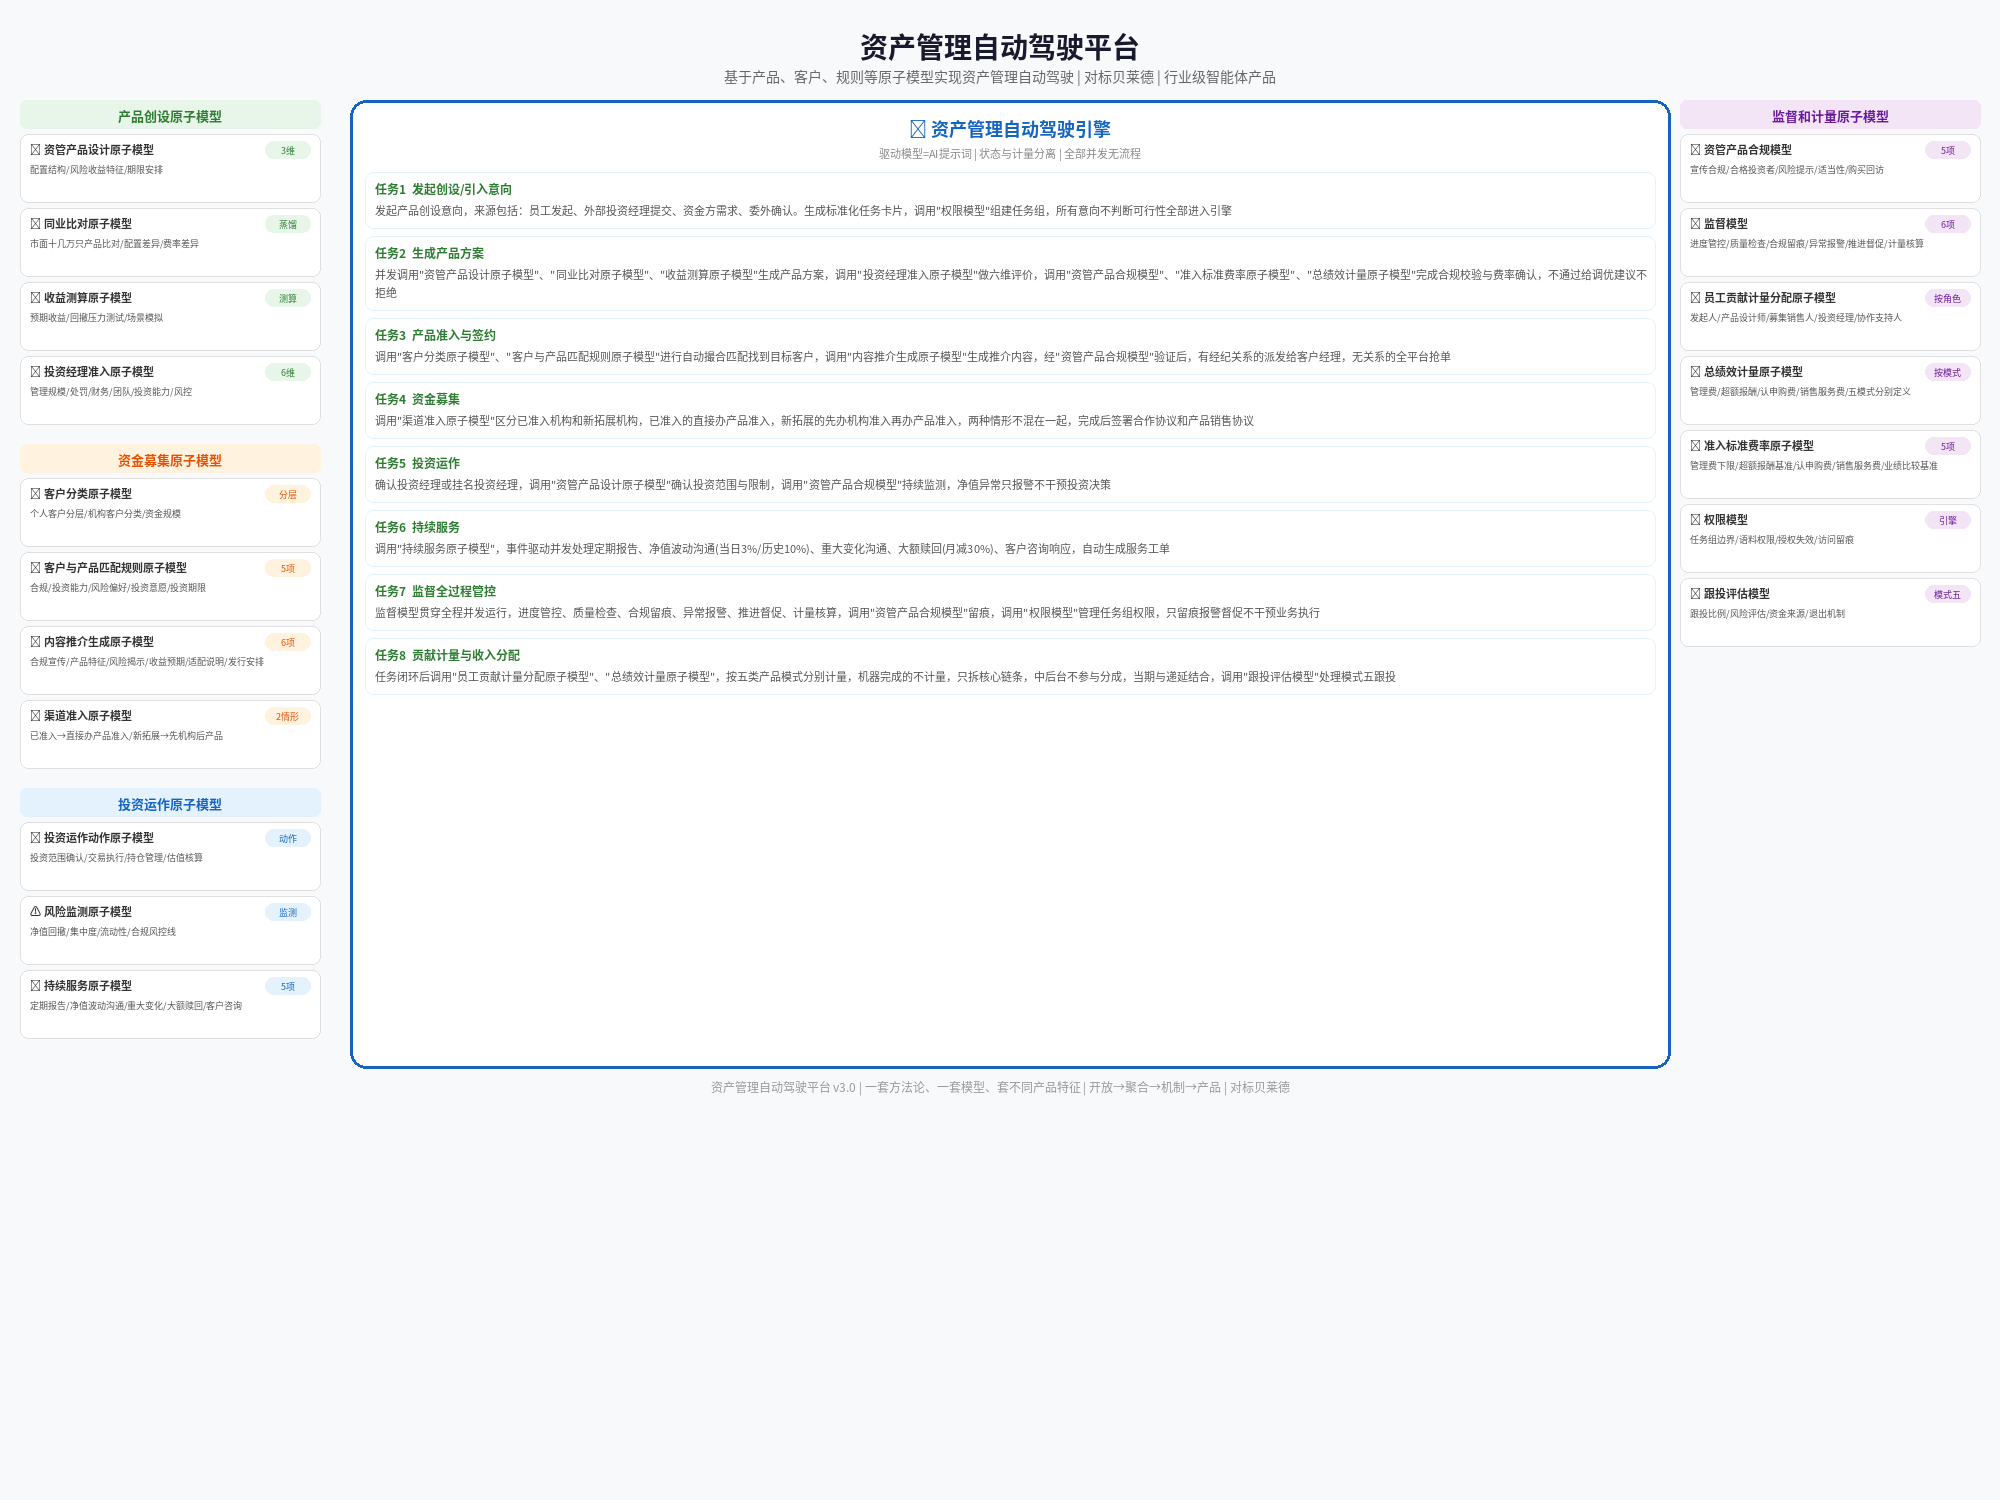
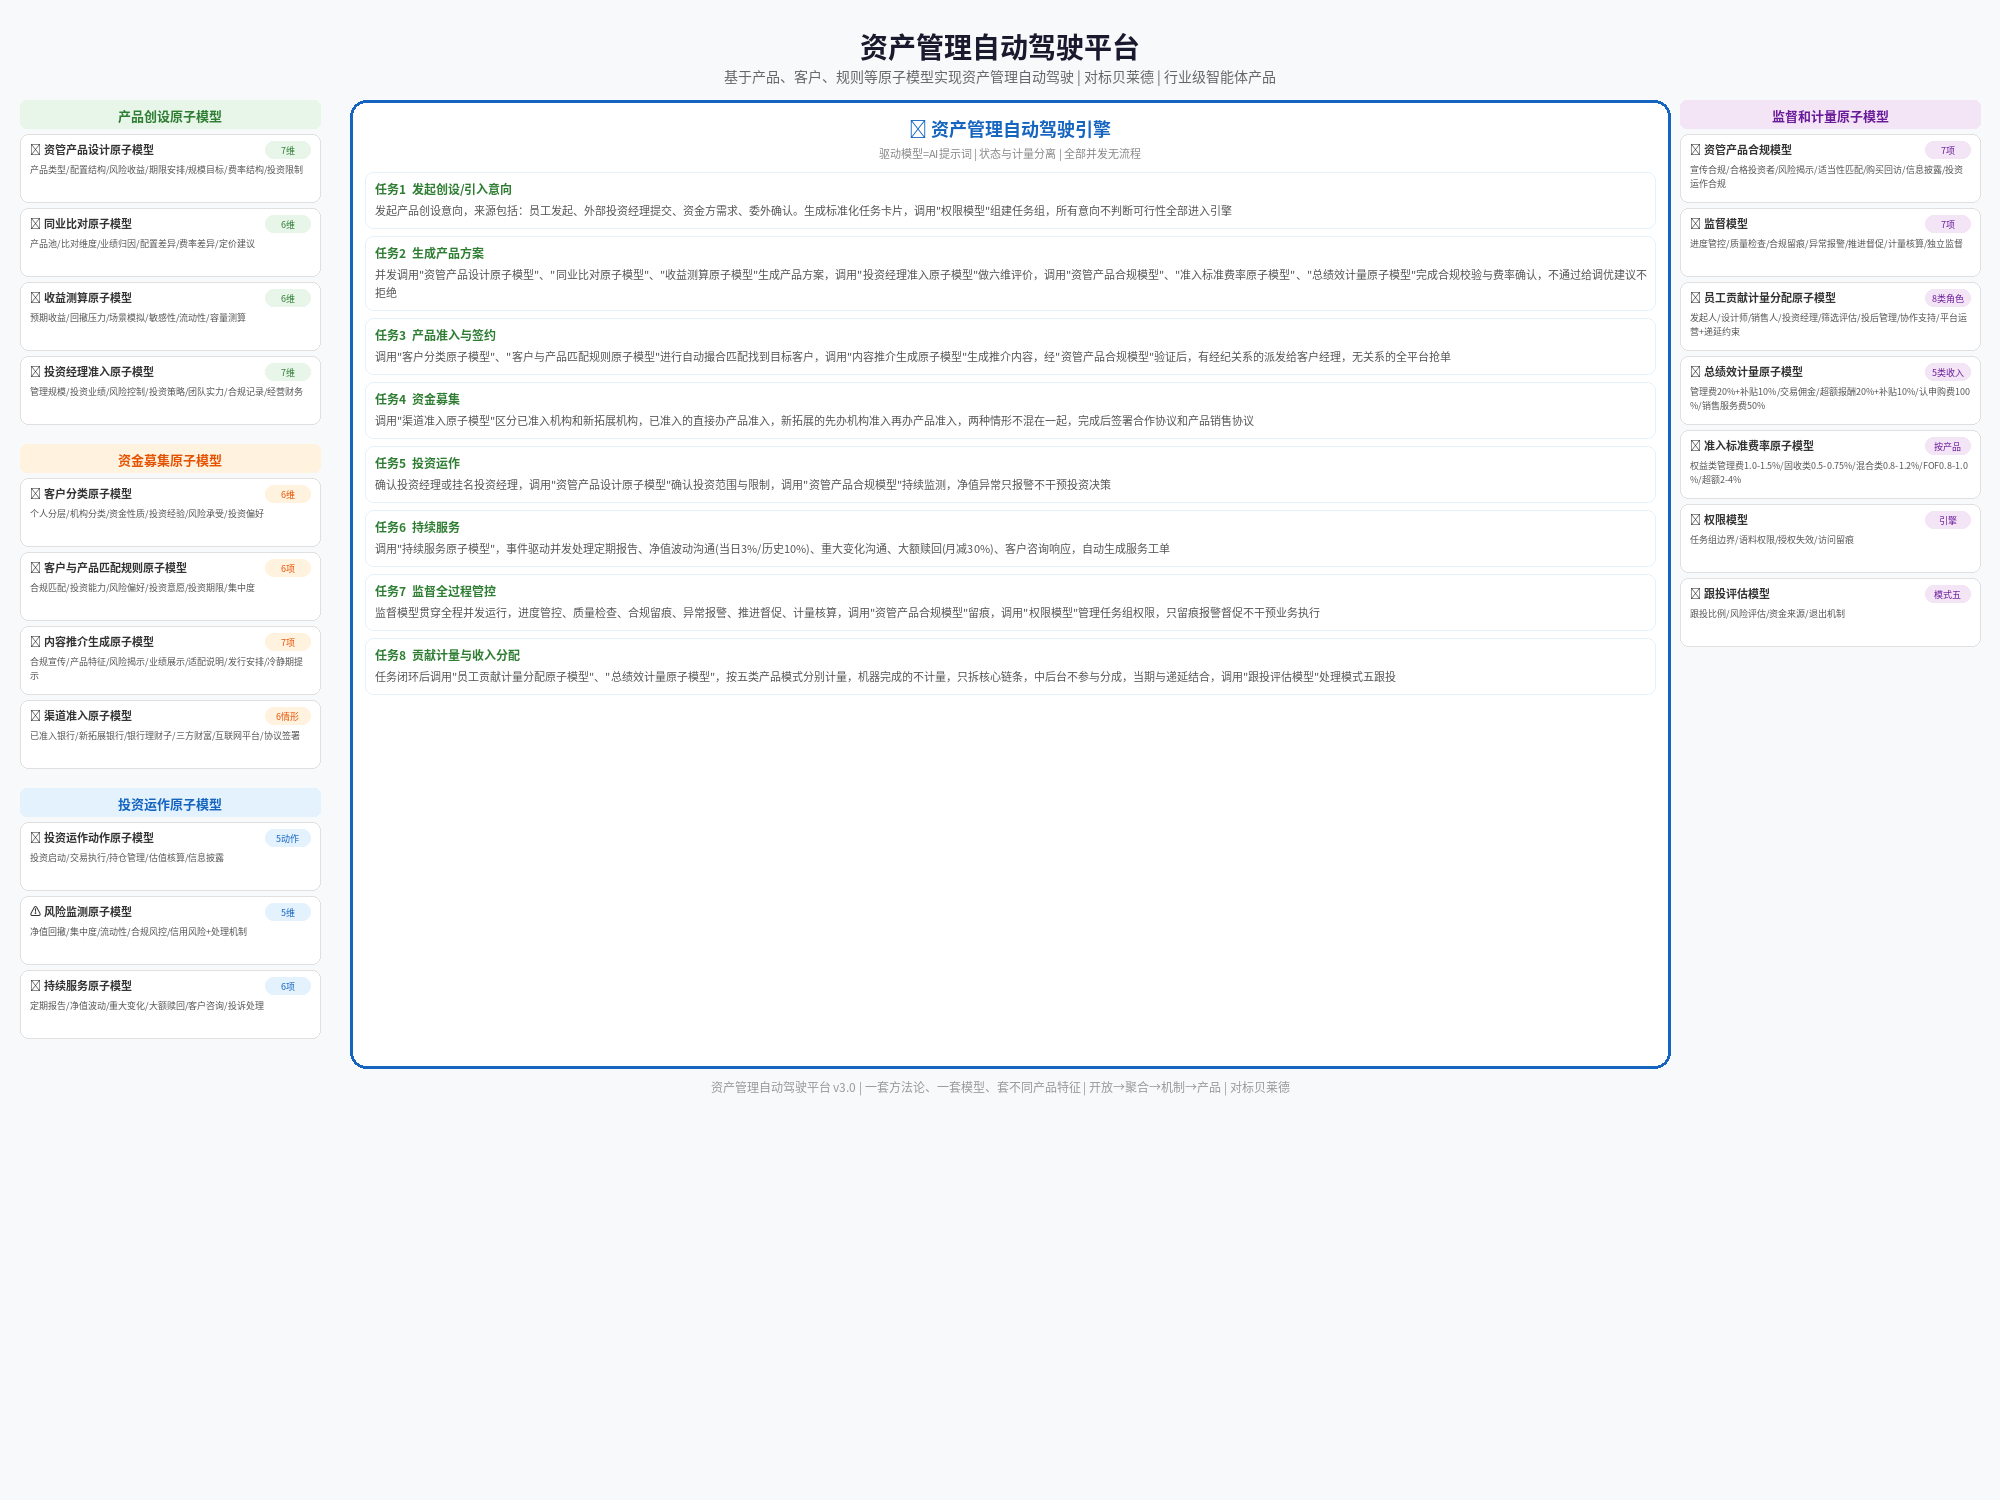
更新：图片原子模型内容按最新方案补充完整

diff --git a/diagrams/generate_asset_mgmt_diagram.py b/diagrams/generate_asset_mgmt_diagram.py
@@ -97,29 +97,29 @@ sections_left = [
         'title': '产品创设原子模型',
         'sec': 'sec1',
         'models': [
-            ('📐 资管产品设计原子模型', '3维', '配置结构/风险收益特征/期限安排'),
-            ('📊 同业比对原子模型', '蒸馏', '市面十几万只产品比对/配置差异/费率差异'),
-            ('🧮 收益测算原子模型', '测算', '预期收益/回撤压力测试/场景模拟'),
-            ('👤 投资经理准入原子模型', '6维', '管理规模/处罚/财务/团队/投资能力/风控'),
+            ('📐 资管产品设计原子模型', '7维', '产品类型/配置结构/风险收益/期限安排/规模目标/费率结构/投资限制'),
+            ('📊 同业比对原子模型', '6维', '产品池/比对维度/业绩归因/配置差异/费率差异/定价建议'),
+            ('🧮 收益测算原子模型', '6维', '预期收益/回撤压力/场景模拟/敏感性/流动性/容量测算'),
+            ('👤 投资经理准入原子模型', '7维', '管理规模/投资业绩/风险控制/投资策略/团队实力/合规记录/经营财务'),
         ]
     },
     {
         'title': '资金募集原子模型',
         'sec': 'sec2',
         'models': [
-            ('👥 客户分类原子模型', '分层', '个人客户分层/机构客户分类/资金规模'),
-            ('🎯 客户与产品匹配规则原子模型', '5项', '合规/投资能力/风险偏好/投资意愿/投资期限'),
-            ('📝 内容推介生成原子模型', '6项', '合规宣传/产品特征/风险揭示/收益预期/适配说明/发行安排'),
-            ('🏦 渠道准入原子模型', '2情形', '已准入→直接办产品准入/新拓展→先机构后产品'),
+            ('👥 客户分类原子模型', '6维', '个人分层/机构分类/资金性质/投资经验/风险承受/投资偏好'),
+            ('🎯 客户与产品匹配规则原子模型', '6项', '合规匹配/投资能力/风险偏好/投资意愿/投资期限/集中度'),
+            ('📝 内容推介生成原子模型', '7项', '合规宣传/产品特征/风险揭示/业绩展示/适配说明/发行安排/冷静期提示'),
+            ('🏦 渠道准入原子模型', '6情形', '已准入银行/新拓展银行/银行理财子/三方财富/互联网平台/协议签署'),
         ]
     },
     {
         'title': '投资运作原子模型',
         'sec': 'sec3',
         'models': [
-            ('📋 投资运作动作原子模型', '动作', '投资范围确认/交易执行/持仓管理/估值核算'),
-            ('⚠ 风险监测原子模型', '监测', '净值回撤/集中度/流动性/合规风控线'),
-            ('🔧 持续服务原子模型', '5项', '定期报告/净值波动沟通/重大变化/大额赎回/客户咨询'),
+            ('📋 投资运作动作原子模型', '5动作', '投资启动/交易执行/持仓管理/估值核算/信息披露'),
+            ('⚠ 风险监测原子模型', '5维', '净值回撤/集中度/流动性/合规风控/信用风险+处理机制'),
+            ('🔧 持续服务原子模型', '6项', '定期报告/净值波动/重大变化/大额赎回/客户咨询/投诉处理'),
         ]
     },
 ]
@@ -129,11 +129,11 @@ sections_right = [
         'title': '监督和计量原子模型',
         'sec': 'sec4',
         'models': [
-            ('🛡 资管产品合规模型', '5项', '宣传合规/合格投资者/风险提示/适当性/购买回访'),
-            ('👁 监督模型', '6项', '进度管控/质量检查/合规留痕/异常报警/推进督促/计量核算'),
-            ('⚖ 员工贡献计量分配原子模型', '按角色', '发起人/产品设计师/募集销售人/投资经理/协作支持人'),
-            ('📈 总绩效计量原子模型', '按模式', '管理费/超额报酬/认申购费/销售服务费/五模式分别定义'),
-            ('💰 准入标准费率原子模型', '5项', '管理费下限/超额报酬基准/认申购费/销售服务费/业绩比较基准'),
+            ('🛡 资管产品合规模型', '7项', '宣传合规/合格投资者/风险揭示/适当性匹配/购买回访/信息披露/投资运作合规'),
+            ('👁 监督模型', '7项', '进度管控/质量检查/合规留痕/异常报警/推进督促/计量核算/独立监督'),
+            ('⚖ 员工贡献计量分配原子模型', '8类角色', '发起人/设计师/销售人/投资经理/筛选评估/投后管理/协作支持/平台运营+递延约束'),
+            ('📈 总绩效计量原子模型', '5类收入', '管理费20%+补贴10%/交易佣金/超额报酬20%+补贴10%/认申购费100%/销售服务费50%'),
+            ('💰 准入标准费率原子模型', '按产品', '权益类管理费1.0-1.5%/固收类0.5-0.75%/混合类0.8-1.2%/FOF0.8-1.0%/超额2-4%'),
             ('🔑 权限模型', '引擎', '任务组边界/语料权限/授权失效/访问留痕'),
             ('📋 跟投评估模型', '模式五', '跟投比例/风险评估/资金来源/退出机制'),
         ]
